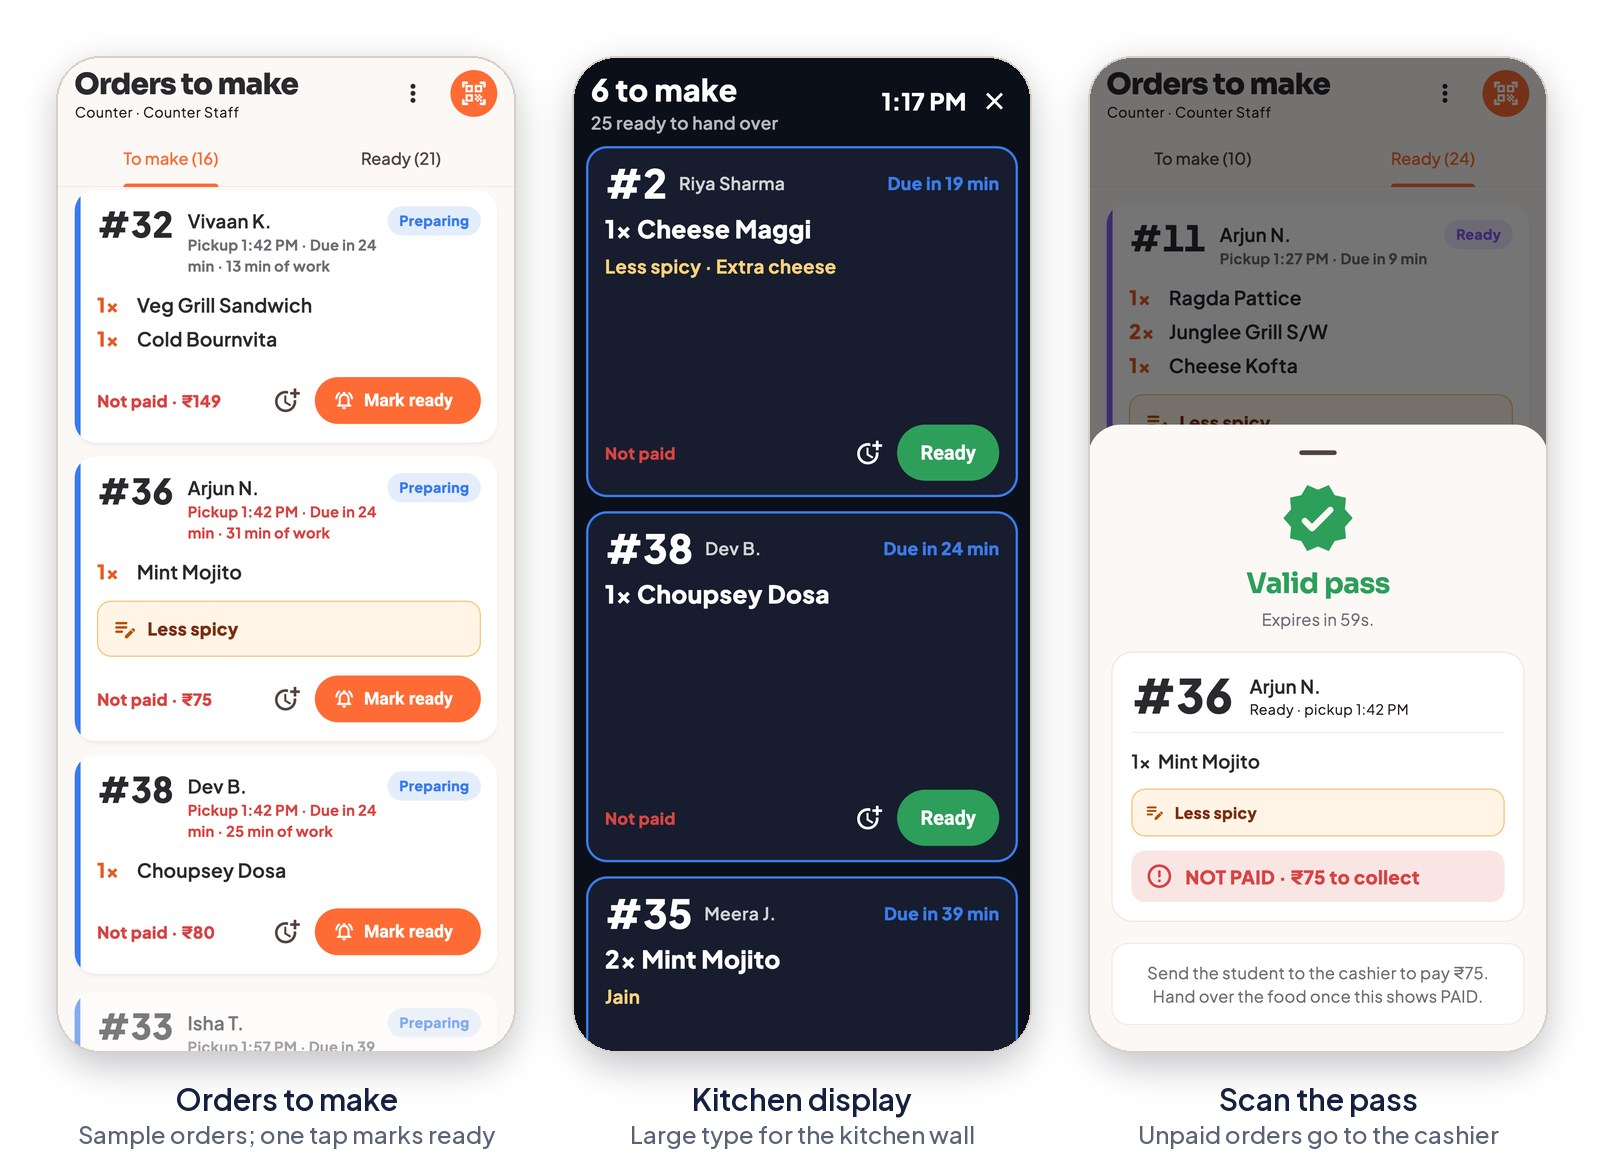
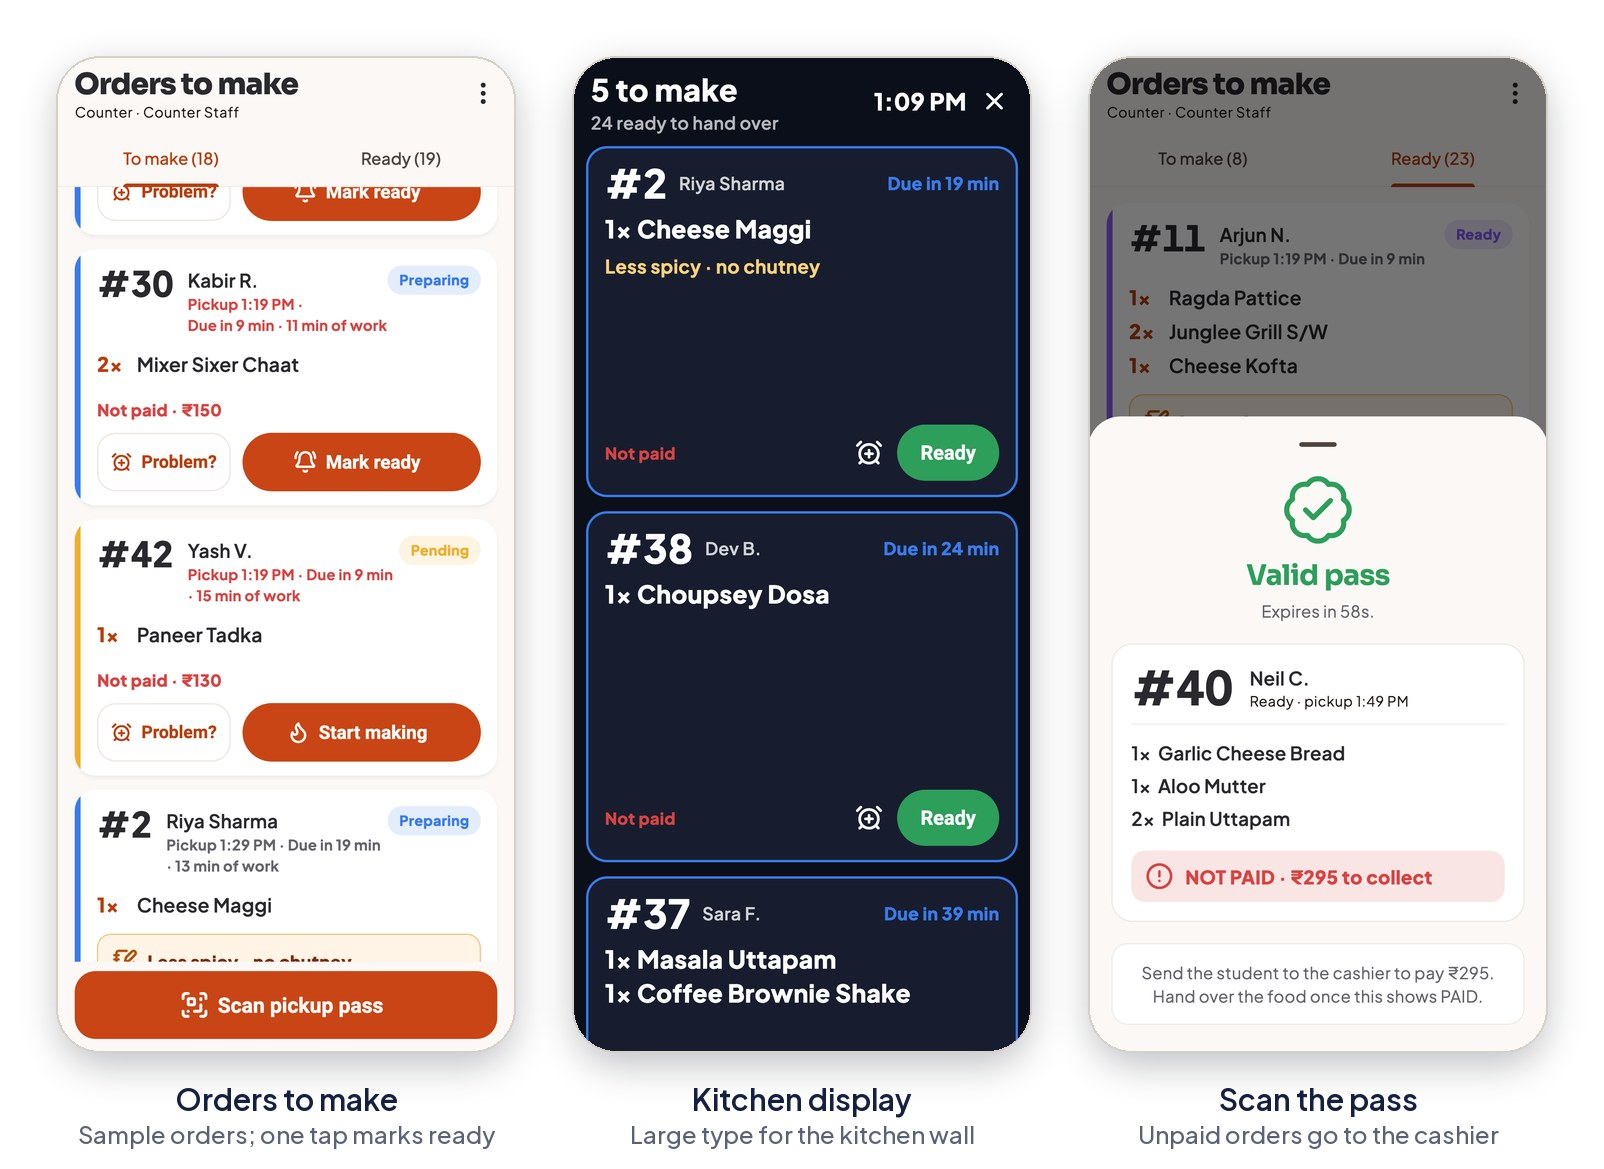
TV order board, staff ID logins, menu safety; numbers as of 10 Nov 2026

diff --git a/README.md b/README.md
@@ -8,8 +8,8 @@ Built by **Vansh Dave** (backend) and **Swara Tillu** (front end), B.Tech Artifi
 
 ![Flutter](https://img.shields.io/badge/Flutter-3.38-02569B?logo=flutter&logoColor=white)
 ![Firebase](https://img.shields.io/badge/Firebase-Auth%20%C2%B7%20Firestore-DD2C00?logo=firebase&logoColor=white)
-![App tests](https://img.shields.io/badge/app%20tests-463%20passing-1F7A4A)
-![Rule checks](https://img.shields.io/badge/security%20rule%20checks-520%20passing-1F7A4A)
+![App tests](https://img.shields.io/badge/app%20tests-594%20passing-1F7A4A)
+![Rule checks](https://img.shields.io/badge/security%20rule%20checks-610%20passing-1F7A4A)
 ![Platforms](https://img.shields.io/badge/platforms-iOS%20%C2%B7%20Android-152040)
 
 > **Status, stated plainly.** QueueLess is built and tested, and loaded with a real canteen menu of 284 dishes. It has not been used by real students yet, so nothing on this page claims a time saving. A four-week pilot is the next step.
@@ -68,6 +68,7 @@ The same app shows three different apps, depending on who signs in. The split is
 ![Counter staff: orders to make, kitchen display and a scanned pass](images/counter-1-make.jpg)
 
 - One list of what to cook, with daily order numbers and the student's note.
+- "Not on our menu" for a dish the canteen does not make; the admin switches it off in one tap.
 - Three actions to learn: mark ready, scan, hand over.
 - "Running late" and "dish not available" in one tap.
 - Screens in English, Hindi or Marathi.
@@ -87,7 +88,14 @@ A large-type kitchen display, readable from across the kitchen.
 
 - The canteen runs its own menu: price, sold out, offers, portions a day, serving hours.
 - A sales report for today, the last 7 days or the last 30.
-- Staff accounts, opening hours, problem reports and catering requests.
+- Staff accounts, with a staff ID login for anyone who has no email, plus opening hours, problem reports and catering requests.
+- New dishes start switched off, so nothing reaches students before the canteen turns it on.
+
+### The TV order board
+
+![TV order board: numbers being made and numbers ready to collect](images/tv-order-board.jpg)
+
+A TV by the counter shows the numbers being made, with about when each will be ready, and the numbers ready to collect. Numbers only: no names, no dishes, no sound. It runs on its own login, made by the admin, which can change nothing.
 
 ## What is working, and what is not
 
@@ -97,6 +105,7 @@ A large-type kitchen display, readable from across the kitchen.
 | Counter screens, kitchen display, pass scanner | Built and tested |
 | Cashier, menu and stock control, hours, offers, staff accounts, sales report | Built and tested |
 | Group chat, catering requests for campus events, late pickup | Built and tested |
+| TV order board, staff ID logins, menu safety | Built and tested |
 | Online payment by UPI or card | Written and tested in test mode; not switched on. Students see a preview marked "not on yet" |
 | Alerts while the app is closed | Not yet; needs a paid cloud plan |
 | App Store and Play Store | Not yet listed |
@@ -104,15 +113,15 @@ A large-type kitchen display, readable from across the kitchen.
 
 ## The parts we are proudest of
 
-**The phone is never trusted.** An app on a student's phone can be modified, so the app decides nothing that matters. The database prices every order again from the menu and refuses a total that does not match. Those rules run to 1,395 lines.
+**The phone is never trusted.** An app on a student's phone can be modified, so the app decides nothing that matters. The database prices every order again from the menu and refuses a total that does not match. Those rules run to 1,550 lines.
 
-**520 automated attacks, all refused.** Each check tries to cheat the rules: a lowered price, a student marking an order paid, reading someone else's order, joining a chat without its code.
+**610 automated attacks, all refused.** Each check tries to cheat the rules: a lowered price, a student marking an order paid, reading someone else's order, joining a chat without its code.
 
 **A pass that cannot be copied.** The QR holds a code derived from the order's secret key and the time. It changes every 30 seconds, and the pass expires a minute after its first scan.
 
-**Wait times that do not lie.** Every dish belongs to a station: tawa, stove, drinks and so on. An order takes as long as its slowest station, with the queue ahead counted in, and the result is shown as a range.
+**Wait times that do not lie.** Every dish belongs to a station: tawa, stove, drinks and so on. Batches overlap, as in a real kitchen. An order takes as long as its slowest station, with the queue ahead counted in, and the result is shown as a range.
 
-**Tests that walk the whole app.** 463 tests, including full journeys as a student, as counter staff and as the admin, at four screen sizes in light and dark mode. Any layout that overflows fails the build.
+**Tests that walk the whole app.** 594 tests, including full journeys as a student, as counter staff and as the admin, at four screen sizes in light and dark mode and at a larger text size, and a busy day of 220 orders. Any layout that overflows fails the build.
 
 ## What was hard
 
@@ -122,6 +131,7 @@ A large-type kitchen display, readable from across the kitchen.
 4. **One person for money, another for food.** That is how the canteen already works, so the app copies it: counter staff cannot record a payment at all.
 5. **It felt slow before it felt quick.** Early versions redrew the whole home screen on every tap. Now each row listens only for its own count.
 6. **Saying no.** A seat-finder was dropped, because nobody would mark that they had left a seat.
+7. **Photos can be wrong.** 51 dish photos had to be replaced, several of which showed meat on a vegetarian dish.
 
 ## Built with
 
@@ -148,14 +158,14 @@ flowchart LR
 
 | | |
 | --- | --- |
-| App code | 50,810 lines of Dart in 190 files |
-| Screens | 55 |
-| Automated app tests | 463 |
-| Attack checks on the database rules | 520 |
-| Menu | 284 dishes in 20 categories |
-| Roles | 3 |
+| App code | 58,264 lines of Dart in 207 files |
+| Screens | 59 |
+| Automated app tests | 594 |
+| Attack checks on the database rules | 610 |
+| Menu | 284 dishes in 19 categories |
+| Roles | 3, plus a TV-screen login |
 
-Counted from the source on 14 October 2026.
+Counted from the source on 10 November 2026.
 
 ## What is next
 
@@ -170,7 +180,7 @@ The source code is in a private repository while a pilot is being discussed. We 
 
 ## Notes
 
-- Counter and admin screenshots, the tracking screen and the pass show sample orders with made-up names. The browsing screens show the real menu.
+- Counter and admin screenshots, the TV board, the tracking screen and the pass show sample orders with made-up names. The browsing screens show the real menu.
 - Dish photos are from Unsplash under its licence. Fonts are Sora and Plus Jakarta Sans under the SIL Open Font License.
 - QueueLess is a student project. It is not affiliated with or endorsed by any college or canteen.
 
